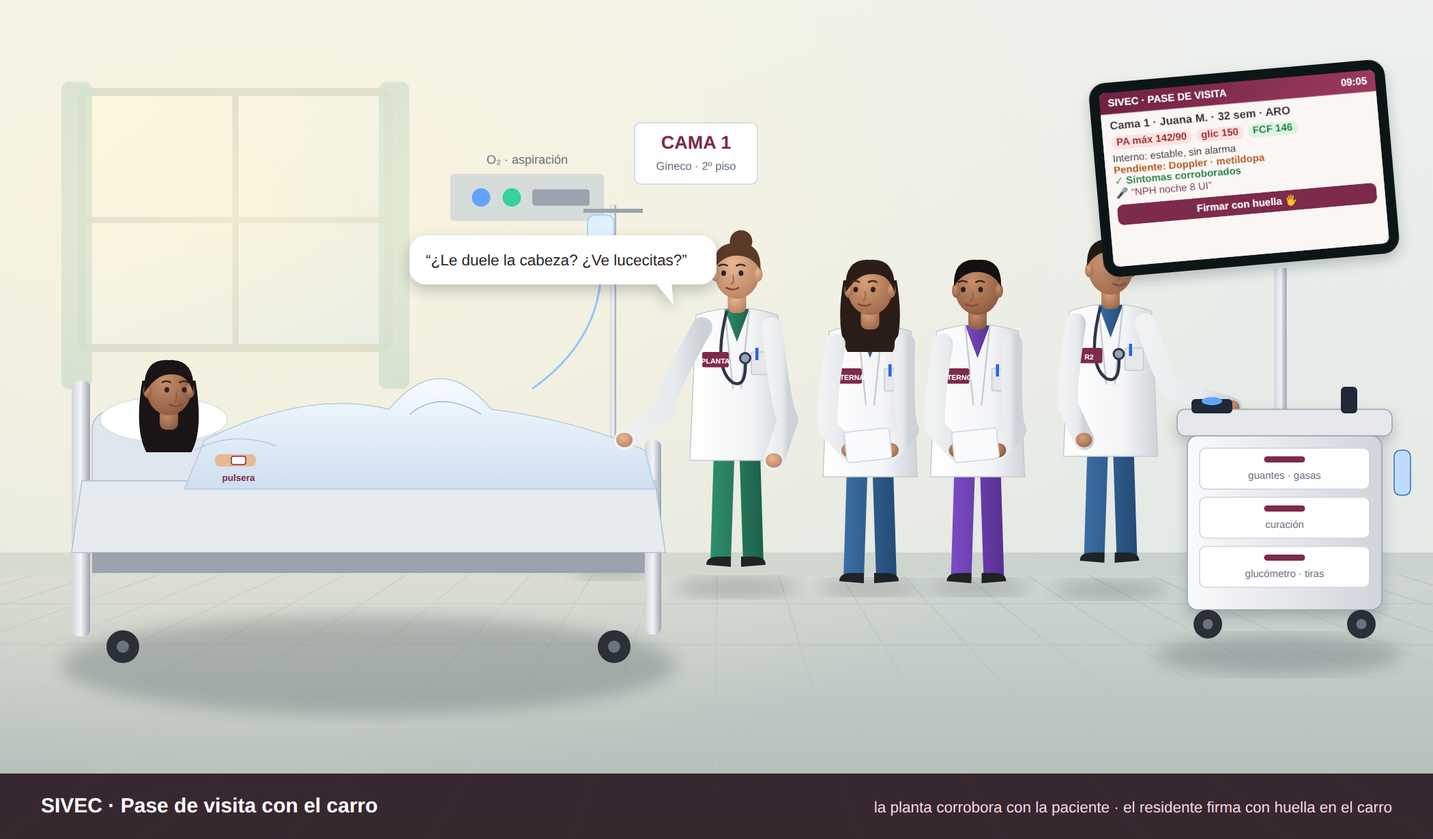
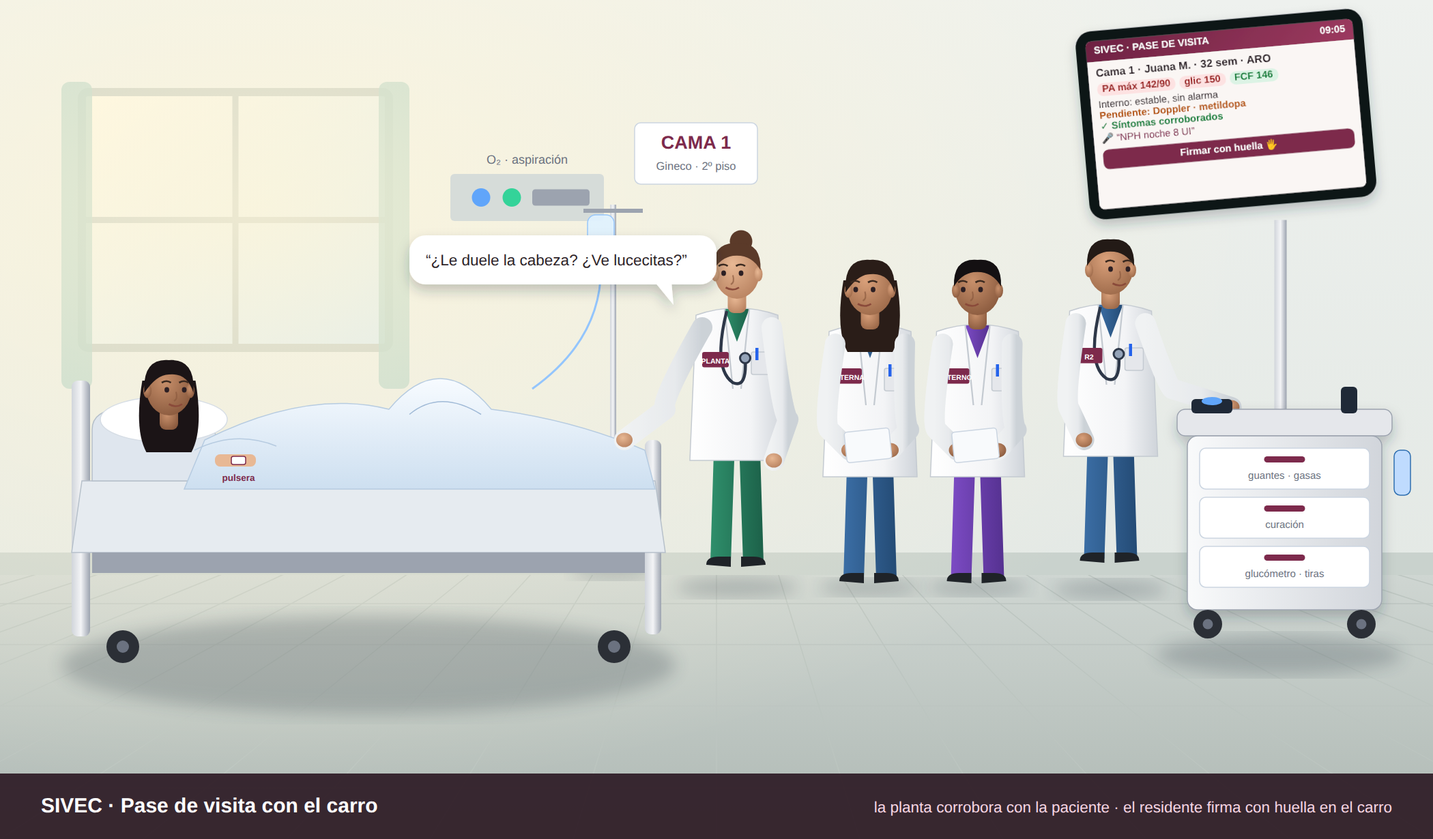
Escena realista: ajuste del tablet
Claude-Session: https://claude.ai/code/session_015MG6VeavRZnDbjYZyzDjvL

Changed region(s): [[0.7429, 0.0, 0.9905, 0.3398]]

diff --git a/docs/escena-realista-pase-visita.html b/docs/escena-realista-pase-visita.html
@@ -16,4 +16,4 @@
 <linearGradient id="cartb" x1="0" y1="0" x2="1" y2="0"><stop offset="0" stop-color="#f9fafb"/><stop offset="1" stop-color="#d1d5db"/></linearGradient>
 <filter id="sh" x="-20%" y="-20%" width="140%" height="160%"><feDropShadow dx="0" dy="6" stdDeviation="6" flood-color="#1f2937" flood-opacity=".25"/></filter>
 <filter id="blur"><feGaussianBlur stdDeviation="8"/></filter>
-</defs><rect width="1400" height="820" fill="url(#wall)"/><polygon points="0,560 1400,560 1400,820 0,820" fill="url(#floor)"/><path d="M-440 560 L-1960 820" stroke="#bcc5c0" stroke-width="1"/><path d="M-380 560 L-1820 820" stroke="#bcc5c0" stroke-width="1"/><path d="M-320 560 L-1680 820" stroke="#bcc5c0" stroke-width="1"/><path d="M-260 560 L-1540 820" stroke="#bcc5c0" stroke-width="1"/><path d="M-200 560 L-1400 820" stroke="#bcc5c0" stroke-width="1"/><path d="M-140 560 L-1260 820" stroke="#bcc5c0" stroke-width="1"/><path d="M-80 560 L-1120 820" stroke="#bcc5c0" stroke-width="1"/><path d="M-20 560 L-980 820" stroke="#bcc5c0" stroke-width="1"/><path d="M40 560 L-840 820" stroke="#bcc5c0" stroke-width="1"/><path d="M100 560 L-700 820" stroke="#bcc5c0" stroke-width="1"/><path d="M160 560 L-560 820" stroke="#bcc5c0" stroke-width="1"/><path d="M220 560 L-420 820" stroke="#bcc5c0" stroke-width="1"/><path d="M280 560 L-280 820" stroke="#bcc5c0" stroke-width="1"/><path d="M340 560 L-140 820" stroke="#bcc5c0" stroke-width="1"/><path d="M400 560 L0 820" stroke="#bcc5c0" stroke-width="1"/><path d="M460 560 L140 820" stroke="#bcc5c0" stroke-width="1"/><path d="M520 560 L280 820" stroke="#bcc5c0" stroke-width="1"/><path d="M580 560 L420 820" stroke="#bcc5c0" stroke-width="1"/><path d="M640 560 L560 820" stroke="#bcc5c0" stroke-width="1"/><path d="M700 560 L700 820" stroke="#bcc5c0" stroke-width="1"/><path d="M760 560 L840 820" stroke="#bcc5c0" stroke-width="1"/><path d="M820 560 L980 820" stroke="#bcc5c0" stroke-width="1"/><path d="M880 560 L1120 820" stroke="#bcc5c0" stroke-width="1"/><path d="M940 560 L1260 820" stroke="#bcc5c0" stroke-width="1"/><path d="M1000 560 L1400 820" stroke="#bcc5c0" stroke-width="1"/><path d="M1060 560 L1540 820" stroke="#bcc5c0" stroke-width="1"/><path d="M1120 560 L1680 820" stroke="#bcc5c0" stroke-width="1"/><path d="M1180 560 L1820 820" stroke="#bcc5c0" stroke-width="1"/><path d="M1240 560 L1960 820" stroke="#bcc5c0" stroke-width="1"/><path d="M1300 560 L2100 820" stroke="#bcc5c0" stroke-width="1"/><path d="M1360 560 L2240 820" stroke="#bcc5c0" stroke-width="1"/><path d="M1420 560 L2380 820" stroke="#bcc5c0" stroke-width="1"/><path d="M1480 560 L2520 820" stroke="#bcc5c0" stroke-width="1"/><path d="M1540 560 L2660 820" stroke="#bcc5c0" stroke-width="1"/><path d="M1600 560 L2800 820" stroke="#bcc5c0" stroke-width="1"/><path d="M1660 560 L2940 820" stroke="#bcc5c0" stroke-width="1"/><path d="M1720 560 L3080 820" stroke="#bcc5c0" stroke-width="1"/><path d="M1780 560 L3220 820" stroke="#bcc5c0" stroke-width="1"/><path d="M1840 560 L3360 820" stroke="#bcc5c0" stroke-width="1"/><path d="M1900 560 L3500 820" stroke="#bcc5c0" stroke-width="1"/><path d="M0 590H1400" stroke="#bcc5c0"/><path d="M0 630H1400" stroke="#bcc5c0"/><path d="M0 690H1400" stroke="#bcc5c0"/><path d="M0 770H1400" stroke="#bcc5c0"/><rect x="0" y="540" width="1400" height="22" fill="#c9d2cd"/><rect x="80" y="90" width="300" height="250" rx="6" fill="url(#win)" stroke="#b8c2bd" stroke-width="8"/><path d="M230 90V340M80 215H380" stroke="#b8c2bd" stroke-width="6"/><rect x="60" y="80" width="30" height="300" rx="8" fill="#9fc8c0" opacity=".8"/><rect x="370" y="80" width="30" height="300" rx="8" fill="#9fc8c0" opacity=".8"/><rect width="1400" height="820" fill="url(#light)"/><rect x="440" y="170" width="150" height="46" rx="4" fill="#d6dcd9"/><circle cx="470" cy="193" r="9" fill="#60a5fa"/><circle cx="500" cy="193" r="9" fill="#34d399"/><rect x="520" y="185" width="56" height="16" rx="3" fill="#9ca3af"/><text x="515" y="160" text-anchor="middle" font-size="12" fill="#6b7280" font-family="Liberation Sans, DejaVu Sans, Arial, sans-serif">O₂ · aspiración</text><rect x="620" y="120" width="120" height="60" rx="6" fill="#fff" stroke="#cbd5e1"/><text x="680" y="145" text-anchor="middle" font-size="18" font-weight="800" fill="#7d2a4c" font-family="Liberation Sans, DejaVu Sans, Arial, sans-serif">CAMA 1</text><text x="680" y="166" text-anchor="middle" font-size="11" fill="#6b7280" font-family="Liberation Sans, DejaVu Sans, Arial, sans-serif">Gineco · 2º piso</text><rect x="596" y="200" width="6" height="360" fill="url(#metal)"/><path d="M570 206 H628" stroke="#9ca3af" stroke-width="4"/><rect x="574" y="210" width="26" height="46" rx="8" fill="#e0f2fe" stroke="#93c5fd" opacity=".95"/><path d="M587 256 Q590 330 520 380" stroke="#93c5fd" stroke-width="2" fill="none"/><ellipse cx="599" cy="560" rx="40" ry="6.4" fill="#1f2937" opacity=".22" filter="url(#blur)"/><ellipse cx="360" cy="650" rx="300" ry="48.0" fill="#1f2937" opacity=".22" filter="url(#blur)"/><rect x="70" y="372" width="18" height="250" rx="6" fill="url(#metal)"/><rect x="630" y="430" width="16" height="190" rx="6" fill="url(#metal)"/><path d="M80 470 L640 470 L650 540 L70 540 Z" fill="#e6ebf0" stroke="#b6c0ca"/><rect x="90" y="540" width="540" height="20" fill="#9ca3af"/><circle cx="120" cy="632" r="16" fill="#2b2f36"/><circle cx="120" cy="632" r="6" fill="#6b7280"/><circle cx="600" cy="632" r="16" fill="#2b2f36"/><circle cx="600" cy="632" r="6" fill="#6b7280"/><path d="M90 470 L90 420 Q90 400 120 400 L200 400 L230 470Z" fill="#dfe6ee" stroke="#b6c0ca"/><ellipse cx="160" cy="410" rx="62" ry="22" fill="#fff" stroke="#d6dde5"/><path d="M139 372 Q131 420 143 442 L187 442 Q199 420 191 372 Z" fill="#1b1416"/><rect x="156" y="398" width="18" height="22" rx="6" fill="url(#skinC)"/><ellipse cx="165" cy="380" rx="22" ry="26" fill="url(#skinC)"/><ellipse cx="144" cy="382" rx="4" ry="7" fill="url(#skinC)"/><ellipse cx="186" cy="382" rx="4" ry="7" fill="url(#skinC)"/><path d="M141 384 Q139 350 165 352 Q191 350 189 384 Q183 364 165 366 Q153 366 141 384Z" fill="#1b1416"/><path d="M158 374 q5 -3 9 0 M175 374 q5 -3 9 0" stroke="#3b2a20" stroke-width="1.8" fill="none"/><ellipse cx="163" cy="381" rx="2.3" ry="2.6" fill="#2d2024"/><ellipse cx="180" cy="381" rx="2.3" ry="2.6" fill="#2d2024"/><path d="M172 383 q2 7 -2 9" stroke="#8a5a3e" stroke-width="1.4" fill="none" opacity=".7"/><path d="M165 395 q7 4 13 0" stroke="#8a4a3a" stroke-width="1.8" fill="none"/><path d="M200 430 Q300 380 380 400 Q430 340 480 400 Q560 410 630 440 L640 478 L180 478 Z" fill="url(#sheet)" stroke="#b6cbe0"/><path d="M190 440 Q230 420 270 436" stroke="#b6cbe0" fill="none"/><path d="M400 405 Q430 380 470 405" stroke="#9fb9d6" fill="none"/><rect x="210" y="444" width="40" height="12" rx="5" fill="#e8b894"/><rect x="226" y="446" width="14" height="8" rx="2" fill="#fff" stroke="#7d2a4c"/><text x="233" y="470" text-anchor="middle" font-size="9" fill="#7d2a4c" font-weight="700" font-family="Liberation Sans, DejaVu Sans, Arial, sans-serif">pulsera</text><ellipse cx="720" cy="574" rx="60" ry="9.6" fill="#1f2937" opacity=".22" filter="url(#blur)"/><path d="M698 420 L694 550 L714 550 L718 430 L722 430 L726 550 L746 550 L742 420Z" fill="url(#scrubG)"/><path d="M690 552 q0 -8 12 -8 l12 0 l0 10 z M724 554 l0 -10 l12 0 q12 0 12 8 z" fill="#1f2328"/><path d="M680 308 Q720 294 760 308 L766 450 L674 450 Z" fill="url(#coat)" stroke="#c4cad1"/><path d="M708 302 L720 334 L732 302" fill="url(#scrubG)"/><path d="M708 302 L716 380 M732 302 L724 380" stroke="#c4cad1" stroke-width="1.5"/><rect x="734" y="344" width="18" height="22" rx="2" fill="#e5e7eb" stroke="#c4cad1"/><rect x="738" y="340" width="3" height="12" fill="#2563eb"/><path d="M710 304 Q696 360 716 374 Q730 380 728 350" fill="none" stroke="#2d3748" stroke-width="3"/><circle cx="728" cy="350" r="5" fill="#94a3b8" stroke="#2d3748" stroke-width="2"/><rect x="686" y="344" width="26" height="15" rx="2" fill="#7d2a4c"/><text x="699" y="355" text-anchor="middle" font-size="7" fill="#fff" font-weight="700" font-family="Liberation Sans, DejaVu Sans, Arial, sans-serif">PLANTA</text><circle cx="724" cy="236" r="11" fill="#5b3a29"/><rect x="711" y="284" width="18" height="22" rx="6" fill="url(#skinA)"/><ellipse cx="720" cy="266" rx="22" ry="26" fill="url(#skinA)"/><ellipse cx="699" cy="268" rx="4" ry="7" fill="url(#skinA)"/><ellipse cx="741" cy="268" rx="4" ry="7" fill="url(#skinA)"/><path d="M697 264 Q696 236 720 238 Q744 236 743 264 Q734 248 716 250 Q704 252 697 264Z" fill="#5b3a29"/><path d="M702 260 q5 -3 9 0 M719 260 q5 -3 9 0" stroke="#3b2a20" stroke-width="1.8" fill="none"/><ellipse cx="707" cy="267" rx="2.3" ry="2.6" fill="#2d2024"/><ellipse cx="724" cy="267" rx="2.3" ry="2.6" fill="#2d2024"/><path d="M716 269 q2 7 -2 9" stroke="#8a5a3e" stroke-width="1.4" fill="none" opacity=".7"/><path d="M709 281 q7 4 13 0" stroke="#8a4a3a" stroke-width="1.8" fill="none"/><path d="M686 320 Q644 394 650 400 L610 430" stroke="url(#coat)" stroke-width="20" stroke-linecap="round" stroke-linejoin="round" fill="none"/><path d="M686 320 Q644 394 650 400 L610 430" stroke="#c4cad1" stroke-width="20" stroke-linecap="round" stroke-linejoin="round" fill="none" opacity=".25"/><ellipse cx="610" cy="430" rx="8" ry="7" fill="url(#skinA)"/><path d="M754 320 Q764 404 770 410 L756 450" stroke="url(#coat)" stroke-width="20" stroke-linecap="round" stroke-linejoin="round" fill="none"/><path d="M754 320 Q764 404 770 410 L756 450" stroke="#c4cad1" stroke-width="20" stroke-linecap="round" stroke-linejoin="round" fill="none" opacity=".25"/><ellipse cx="756" cy="450" rx="8" ry="7" fill="url(#skinA)"/><g filter="url(#sh)"><rect x="400" y="230" width="300" height="48" rx="16" fill="#fff"/><path d="M640 276 l18 22 l-2 -22z" fill="#fff"/></g><text x="416" y="259" font-size="15" fill="#2d2429" font-family="Liberation Sans, DejaVu Sans, Arial, sans-serif">“¿Le duele la cabeza? ¿Ve lucecitas?”</text><ellipse cx="850" cy="574" rx="50" ry="8.0" fill="#1f2937" opacity=".22" filter="url(#blur)"/><path d="M828 436 L824 566 L844 566 L848 446 L852 446 L856 566 L876 566 L872 436Z" fill="url(#scrubB)"/><path d="M820 568 q0 -8 12 -8 l12 0 l0 10 z M854 570 l0 -10 l12 0 q12 0 12 8 z" fill="#1f2328"/><path d="M810 324 Q850 310 890 324 L896 466 L804 466 Z" fill="url(#coat)" stroke="#c4cad1"/><path d="M838 318 L850 350 L862 318" fill="url(#scrubB)"/><path d="M838 318 L846 396 M862 318 L854 396" stroke="#c4cad1" stroke-width="1.5"/><rect x="864" y="360" width="18" height="22" rx="2" fill="#e5e7eb" stroke="#c4cad1"/><rect x="868" y="356" width="3" height="12" fill="#2563eb"/><rect x="816" y="360" width="26" height="15" rx="2" fill="#7d2a4c"/><text x="829" y="371" text-anchor="middle" font-size="7" fill="#fff" font-weight="700" font-family="Liberation Sans, DejaVu Sans, Arial, sans-serif">INTERNA</text><path d="M824 274 Q816 322 828 344 L872 344 Q884 322 876 274 Z" fill="#2a1d18"/><rect x="841" y="300" width="18" height="22" rx="6" fill="url(#skinB)"/><ellipse cx="850" cy="282" rx="22" ry="26" fill="url(#skinB)"/><ellipse cx="829" cy="284" rx="4" ry="7" fill="url(#skinB)"/><ellipse cx="871" cy="284" rx="4" ry="7" fill="url(#skinB)"/><path d="M826 286 Q824 252 850 254 Q876 252 874 286 Q868 266 850 268 Q838 268 826 286Z" fill="#2a1d18"/><path d="M831 276 q5 -3 9 0 M848 276 q5 -3 9 0" stroke="#3b2a20" stroke-width="1.8" fill="none"/><ellipse cx="836" cy="283" rx="2.3" ry="2.6" fill="#2d2024"/><ellipse cx="853" cy="283" rx="2.3" ry="2.6" fill="#2d2024"/><path d="M845 285 q2 7 -2 9" stroke="#8a5a3e" stroke-width="1.4" fill="none" opacity=".7"/><path d="M838 297 q7 4 13 0" stroke="#8a4a3a" stroke-width="1.8" fill="none"/><path d="M816 336 Q804 414 810 420 L830 440" stroke="url(#coat)" stroke-width="20" stroke-linecap="round" stroke-linejoin="round" fill="none"/><path d="M816 336 Q804 414 810 420 L830 440" stroke="#c4cad1" stroke-width="20" stroke-linecap="round" stroke-linejoin="round" fill="none" opacity=".25"/><ellipse cx="830" cy="440" rx="8" ry="7" fill="url(#skinB)"/><path d="M884 336 Q882 414 888 420 L870 440" stroke="url(#coat)" stroke-width="20" stroke-linecap="round" stroke-linejoin="round" fill="none"/><path d="M884 336 Q882 414 888 420 L870 440" stroke="#c4cad1" stroke-width="20" stroke-linecap="round" stroke-linejoin="round" fill="none" opacity=".25"/><ellipse cx="870" cy="440" rx="8" ry="7" fill="url(#skinB)"/><rect x="826" y="420" width="44" height="30" rx="3" fill="#f8fafc" stroke="#cbd5e1" transform="rotate(-6 850 435)"/><ellipse cx="955" cy="574" rx="50" ry="8.0" fill="#1f2937" opacity=".22" filter="url(#blur)"/><path d="M933 436 L929 566 L949 566 L953 446 L957 446 L961 566 L981 566 L977 436Z" fill="url(#scrubP)"/><path d="M925 568 q0 -8 12 -8 l12 0 l0 10 z M959 570 l0 -10 l12 0 q12 0 12 8 z" fill="#1f2328"/><path d="M915 324 Q955 310 995 324 L1001 466 L909 466 Z" fill="url(#coat)" stroke="#c4cad1"/><path d="M943 318 L955 350 L967 318" fill="url(#scrubP)"/><path d="M943 318 L951 396 M967 318 L959 396" stroke="#c4cad1" stroke-width="1.5"/><rect x="969" y="360" width="18" height="22" rx="2" fill="#e5e7eb" stroke="#c4cad1"/><rect x="973" y="356" width="3" height="12" fill="#2563eb"/><rect x="921" y="360" width="26" height="15" rx="2" fill="#7d2a4c"/><text x="934" y="371" text-anchor="middle" font-size="7" fill="#fff" font-weight="700" font-family="Liberation Sans, DejaVu Sans, Arial, sans-serif">INTERNO</text><rect x="946" y="300" width="18" height="22" rx="6" fill="url(#skinC)"/><ellipse cx="955" cy="282" rx="22" ry="26" fill="url(#skinC)"/><ellipse cx="934" cy="284" rx="4" ry="7" fill="url(#skinC)"/><ellipse cx="976" cy="284" rx="4" ry="7" fill="url(#skinC)"/><path d="M932 280 Q931 252 955 254 Q979 252 978 280 Q969 264 951 266 Q939 268 932 280Z" fill="#141012"/><path d="M936 276 q5 -3 9 0 M953 276 q5 -3 9 0" stroke="#3b2a20" stroke-width="1.8" fill="none"/><ellipse cx="941" cy="283" rx="2.3" ry="2.6" fill="#2d2024"/><ellipse cx="958" cy="283" rx="2.3" ry="2.6" fill="#2d2024"/><path d="M950 285 q2 7 -2 9" stroke="#8a5a3e" stroke-width="1.4" fill="none" opacity=".7"/><path d="M943 297 q7 4 13 0" stroke="#8a4a3a" stroke-width="1.8" fill="none"/><path d="M921 336 Q909 414 915 420 L935 440" stroke="url(#coat)" stroke-width="20" stroke-linecap="round" stroke-linejoin="round" fill="none"/><path d="M921 336 Q909 414 915 420 L935 440" stroke="#c4cad1" stroke-width="20" stroke-linecap="round" stroke-linejoin="round" fill="none" opacity=".25"/><ellipse cx="935" cy="440" rx="8" ry="7" fill="url(#skinC)"/><path d="M989 336 Q987 414 993 420 L975 440" stroke="url(#coat)" stroke-width="20" stroke-linecap="round" stroke-linejoin="round" fill="none"/><path d="M989 336 Q987 414 993 420 L975 440" stroke="#c4cad1" stroke-width="20" stroke-linecap="round" stroke-linejoin="round" fill="none" opacity=".25"/><ellipse cx="975" cy="440" rx="8" ry="7" fill="url(#skinC)"/><rect x="931" y="420" width="44" height="30" rx="3" fill="#f8fafc" stroke="#cbd5e1" transform="rotate(-6 955 435)"/><ellipse cx="1085" cy="576" rx="56" ry="8.96" fill="#1f2937" opacity=".22" filter="url(#blur)"/><path d="M1063 416 L1059 546 L1079 546 L1083 426 L1087 426 L1091 546 L1111 546 L1107 416Z" fill="url(#scrubB)"/><path d="M1055 548 q0 -8 12 -8 l12 0 l0 10 z M1089 550 l0 -10 l12 0 q12 0 12 8 z" fill="#1f2328"/><path d="M1045 304 Q1085 290 1125 304 L1131 446 L1039 446 Z" fill="url(#coat)" stroke="#c4cad1"/><path d="M1073 298 L1085 330 L1097 298" fill="url(#scrubB)"/><path d="M1073 298 L1081 376 M1097 298 L1089 376" stroke="#c4cad1" stroke-width="1.5"/><rect x="1099" y="340" width="18" height="22" rx="2" fill="#e5e7eb" stroke="#c4cad1"/><rect x="1103" y="336" width="3" height="12" fill="#2563eb"/><path d="M1075 300 Q1061 356 1081 370 Q1095 376 1093 346" fill="none" stroke="#2d3748" stroke-width="3"/><circle cx="1093" cy="346" r="5" fill="#94a3b8" stroke="#2d3748" stroke-width="2"/><rect x="1051" y="340" width="26" height="15" rx="2" fill="#7d2a4c"/><text x="1064" y="351" text-anchor="middle" font-size="7" fill="#fff" font-weight="700" font-family="Liberation Sans, DejaVu Sans, Arial, sans-serif">R2</text><rect x="1076" y="280" width="18" height="22" rx="6" fill="url(#skinB)"/><ellipse cx="1085" cy="262" rx="22" ry="26" fill="url(#skinB)"/><ellipse cx="1064" cy="264" rx="4" ry="7" fill="url(#skinB)"/><ellipse cx="1106" cy="264" rx="4" ry="7" fill="url(#skinB)"/><path d="M1062 260 Q1061 232 1085 234 Q1109 232 1108 260 Q1099 244 1081 246 Q1069 248 1062 260Z" fill="#231a16"/><path d="M1080 256 q5 -3 9 0 M1097 256 q5 -3 9 0" stroke="#3b2a20" stroke-width="1.8" fill="none"/><ellipse cx="1085" cy="263" rx="2.3" ry="2.6" fill="#2d2024"/><ellipse cx="1102" cy="263" rx="2.3" ry="2.6" fill="#2d2024"/><path d="M1094 265 q2 7 -2 9" stroke="#8a5a3e" stroke-width="1.4" fill="none" opacity=".7"/><path d="M1087 277 q7 4 13 0" stroke="#8a4a3a" stroke-width="1.8" fill="none"/><path d="M1119 316 Q1139 374 1145 380 L1203 398" stroke="url(#coat)" stroke-width="20" stroke-linecap="round" stroke-linejoin="round" fill="none"/><path d="M1119 316 Q1139 374 1145 380 L1203 398" stroke="#c4cad1" stroke-width="20" stroke-linecap="round" stroke-linejoin="round" fill="none" opacity=".25"/><ellipse cx="1203" cy="398" rx="8" ry="7" fill="url(#skinB)"/><path d="M1051 316 Q1039 394 1045 400 L1059 430" stroke="url(#coat)" stroke-width="20" stroke-linecap="round" stroke-linejoin="round" fill="none"/><path d="M1051 316 Q1039 394 1045 400 L1059 430" stroke="#c4cad1" stroke-width="20" stroke-linecap="round" stroke-linejoin="round" fill="none" opacity=".25"/><ellipse cx="1059" cy="430" rx="8" ry="7" fill="url(#skinB)"/><ellipse cx="1250" cy="640" rx="120" ry="19.2" fill="#1f2937" opacity=".22" filter="url(#blur)"/><rect x="1245" y="262" width="12" height="140" fill="url(#metal)"/><g filter="url(#sh)"><rect x="1150" y="400" width="210" height="26" rx="8" fill="#e5e7eb" stroke="#9ca3af"/><rect x="1160" y="426" width="190" height="170" rx="10" fill="url(#cartb)" stroke="#9ca3af"/></g><rect x="1172" y="438" width="166" height="40" rx="6" fill="#fff" stroke="#cbd5e1"/><rect x="1235" y="446" width="40" height="6" rx="3" fill="#7d2a4c"/><text x="1255" y="468" text-anchor="middle" font-size="10" fill="#6b7280" font-family="Liberation Sans, DejaVu Sans, Arial, sans-serif">guantes · gasas</text><rect x="1172" y="486" width="166" height="40" rx="6" fill="#fff" stroke="#cbd5e1"/><rect x="1235" y="494" width="40" height="6" rx="3" fill="#7d2a4c"/><text x="1255" y="516" text-anchor="middle" font-size="10" fill="#6b7280" font-family="Liberation Sans, DejaVu Sans, Arial, sans-serif">curación</text><rect x="1172" y="534" width="166" height="40" rx="6" fill="#fff" stroke="#cbd5e1"/><rect x="1235" y="542" width="40" height="6" rx="3" fill="#7d2a4c"/><text x="1255" y="564" text-anchor="middle" font-size="10" fill="#6b7280" font-family="Liberation Sans, DejaVu Sans, Arial, sans-serif">glucómetro · tiras</text><circle cx="1180" cy="610" r="14" fill="#2b2f36"/><circle cx="1180" cy="610" r="5" fill="#6b7280"/><circle cx="1330" cy="610" r="14" fill="#2b2f36"/><circle cx="1330" cy="610" r="5" fill="#6b7280"/><rect x="1164" y="390" width="40" height="14" rx="4" fill="#1f2937"/><ellipse cx="1184" cy="392" rx="10" ry="4" fill="#60a5fa"/><rect x="1310" y="378" width="16" height="26" rx="4" fill="#1f2937"/><rect x="1362" y="440" width="16" height="44" rx="6" fill="#bfdbfe" stroke="#2f6fb0"/><g filter="url(#sh)" transform="translate(-40,0) rotate(-5 1250 160)"><rect x="1110" y="70" width="290" height="190" rx="16" fill="#111418"/><foreignObject x="1120" y="80" width="270" height="170"><div xmlns="http://www.w3.org/1999/xhtml" style="width:270px;height:170px;background:#faf6f4;border-radius:6px;overflow:hidden;font:10px Liberation Sans,DejaVu Sans,Arial,sans-serif;color:#2d2429"><div style="background:linear-gradient(135deg,#6d2142,#9c3a5f);color:#fff;padding:5px 8px;font-weight:800;display:flex;justify-content:space-between"><span>SIVEC · PASE DE VISITA</span><span>09:05</span></div><div style="padding:6px 8px"><b style="font-size:11px">Cama 1 · Juana M. · 32 sem · ARO</b><div style="display:flex;gap:4px;margin:4px 0"><span style="background:#fde2e2;color:#991b1b;border-radius:6px;padding:1px 5px;font-weight:700">PA máx 142/90</span><span style="background:#fde2e2;color:#991b1b;border-radius:6px;padding:1px 5px;font-weight:700">glic 150</span><span style="background:#dcf3e5;color:#15803d;border-radius:6px;padding:1px 5px;font-weight:700">FCF 146</span></div><div>Interno: estable, sin alarma</div><div style="color:#b45309;font-weight:700">Pendiente: Doppler · metildopa</div><div style="color:#15803d;font-weight:700">✓ Síntomas corroborados</div><div style="color:#7d2a4c">🎤 “NPH noche 8 UI”</div><div style="margin-top:5px;background:#7d2a4c;color:#fff;border-radius:6px;text-align:center;padding:4px;font-weight:800">Firmar con huella 🖐</div></div></div></foreignObject></g><rect x="0" y="756" width="1400" height="64" fill="#2d1a24" opacity=".92"/><text x="40" y="794" font-size="20" fill="#fff" font-weight="700" font-family="Liberation Sans, DejaVu Sans, Arial, sans-serif">SIVEC · Pase de visita con el carro</text><text x="1360" y="794" text-anchor="end" font-size="15" fill="#f6d6e3" font-family="Liberation Sans, DejaVu Sans, Arial, sans-serif">la planta corrobora con la paciente · el residente firma con huella en el carro</text></svg></body></html>
+</defs><rect width="1400" height="820" fill="url(#wall)"/><polygon points="0,560 1400,560 1400,820 0,820" fill="url(#floor)"/><path d="M-440 560 L-1960 820" stroke="#bcc5c0" stroke-width="1"/><path d="M-380 560 L-1820 820" stroke="#bcc5c0" stroke-width="1"/><path d="M-320 560 L-1680 820" stroke="#bcc5c0" stroke-width="1"/><path d="M-260 560 L-1540 820" stroke="#bcc5c0" stroke-width="1"/><path d="M-200 560 L-1400 820" stroke="#bcc5c0" stroke-width="1"/><path d="M-140 560 L-1260 820" stroke="#bcc5c0" stroke-width="1"/><path d="M-80 560 L-1120 820" stroke="#bcc5c0" stroke-width="1"/><path d="M-20 560 L-980 820" stroke="#bcc5c0" stroke-width="1"/><path d="M40 560 L-840 820" stroke="#bcc5c0" stroke-width="1"/><path d="M100 560 L-700 820" stroke="#bcc5c0" stroke-width="1"/><path d="M160 560 L-560 820" stroke="#bcc5c0" stroke-width="1"/><path d="M220 560 L-420 820" stroke="#bcc5c0" stroke-width="1"/><path d="M280 560 L-280 820" stroke="#bcc5c0" stroke-width="1"/><path d="M340 560 L-140 820" stroke="#bcc5c0" stroke-width="1"/><path d="M400 560 L0 820" stroke="#bcc5c0" stroke-width="1"/><path d="M460 560 L140 820" stroke="#bcc5c0" stroke-width="1"/><path d="M520 560 L280 820" stroke="#bcc5c0" stroke-width="1"/><path d="M580 560 L420 820" stroke="#bcc5c0" stroke-width="1"/><path d="M640 560 L560 820" stroke="#bcc5c0" stroke-width="1"/><path d="M700 560 L700 820" stroke="#bcc5c0" stroke-width="1"/><path d="M760 560 L840 820" stroke="#bcc5c0" stroke-width="1"/><path d="M820 560 L980 820" stroke="#bcc5c0" stroke-width="1"/><path d="M880 560 L1120 820" stroke="#bcc5c0" stroke-width="1"/><path d="M940 560 L1260 820" stroke="#bcc5c0" stroke-width="1"/><path d="M1000 560 L1400 820" stroke="#bcc5c0" stroke-width="1"/><path d="M1060 560 L1540 820" stroke="#bcc5c0" stroke-width="1"/><path d="M1120 560 L1680 820" stroke="#bcc5c0" stroke-width="1"/><path d="M1180 560 L1820 820" stroke="#bcc5c0" stroke-width="1"/><path d="M1240 560 L1960 820" stroke="#bcc5c0" stroke-width="1"/><path d="M1300 560 L2100 820" stroke="#bcc5c0" stroke-width="1"/><path d="M1360 560 L2240 820" stroke="#bcc5c0" stroke-width="1"/><path d="M1420 560 L2380 820" stroke="#bcc5c0" stroke-width="1"/><path d="M1480 560 L2520 820" stroke="#bcc5c0" stroke-width="1"/><path d="M1540 560 L2660 820" stroke="#bcc5c0" stroke-width="1"/><path d="M1600 560 L2800 820" stroke="#bcc5c0" stroke-width="1"/><path d="M1660 560 L2940 820" stroke="#bcc5c0" stroke-width="1"/><path d="M1720 560 L3080 820" stroke="#bcc5c0" stroke-width="1"/><path d="M1780 560 L3220 820" stroke="#bcc5c0" stroke-width="1"/><path d="M1840 560 L3360 820" stroke="#bcc5c0" stroke-width="1"/><path d="M1900 560 L3500 820" stroke="#bcc5c0" stroke-width="1"/><path d="M0 590H1400" stroke="#bcc5c0"/><path d="M0 630H1400" stroke="#bcc5c0"/><path d="M0 690H1400" stroke="#bcc5c0"/><path d="M0 770H1400" stroke="#bcc5c0"/><rect x="0" y="540" width="1400" height="22" fill="#c9d2cd"/><rect x="80" y="90" width="300" height="250" rx="6" fill="url(#win)" stroke="#b8c2bd" stroke-width="8"/><path d="M230 90V340M80 215H380" stroke="#b8c2bd" stroke-width="6"/><rect x="60" y="80" width="30" height="300" rx="8" fill="#9fc8c0" opacity=".8"/><rect x="370" y="80" width="30" height="300" rx="8" fill="#9fc8c0" opacity=".8"/><rect width="1400" height="820" fill="url(#light)"/><rect x="440" y="170" width="150" height="46" rx="4" fill="#d6dcd9"/><circle cx="470" cy="193" r="9" fill="#60a5fa"/><circle cx="500" cy="193" r="9" fill="#34d399"/><rect x="520" y="185" width="56" height="16" rx="3" fill="#9ca3af"/><text x="515" y="160" text-anchor="middle" font-size="12" fill="#6b7280" font-family="Liberation Sans, DejaVu Sans, Arial, sans-serif">O₂ · aspiración</text><rect x="620" y="120" width="120" height="60" rx="6" fill="#fff" stroke="#cbd5e1"/><text x="680" y="145" text-anchor="middle" font-size="18" font-weight="800" fill="#7d2a4c" font-family="Liberation Sans, DejaVu Sans, Arial, sans-serif">CAMA 1</text><text x="680" y="166" text-anchor="middle" font-size="11" fill="#6b7280" font-family="Liberation Sans, DejaVu Sans, Arial, sans-serif">Gineco · 2º piso</text><rect x="596" y="200" width="6" height="360" fill="url(#metal)"/><path d="M570 206 H628" stroke="#9ca3af" stroke-width="4"/><rect x="574" y="210" width="26" height="46" rx="8" fill="#e0f2fe" stroke="#93c5fd" opacity=".95"/><path d="M587 256 Q590 330 520 380" stroke="#93c5fd" stroke-width="2" fill="none"/><ellipse cx="599" cy="560" rx="40" ry="6.4" fill="#1f2937" opacity=".22" filter="url(#blur)"/><ellipse cx="360" cy="650" rx="300" ry="48.0" fill="#1f2937" opacity=".22" filter="url(#blur)"/><rect x="70" y="372" width="18" height="250" rx="6" fill="url(#metal)"/><rect x="630" y="430" width="16" height="190" rx="6" fill="url(#metal)"/><path d="M80 470 L640 470 L650 540 L70 540 Z" fill="#e6ebf0" stroke="#b6c0ca"/><rect x="90" y="540" width="540" height="20" fill="#9ca3af"/><circle cx="120" cy="632" r="16" fill="#2b2f36"/><circle cx="120" cy="632" r="6" fill="#6b7280"/><circle cx="600" cy="632" r="16" fill="#2b2f36"/><circle cx="600" cy="632" r="6" fill="#6b7280"/><path d="M90 470 L90 420 Q90 400 120 400 L200 400 L230 470Z" fill="#dfe6ee" stroke="#b6c0ca"/><ellipse cx="160" cy="410" rx="62" ry="22" fill="#fff" stroke="#d6dde5"/><path d="M139 372 Q131 420 143 442 L187 442 Q199 420 191 372 Z" fill="#1b1416"/><rect x="156" y="398" width="18" height="22" rx="6" fill="url(#skinC)"/><ellipse cx="165" cy="380" rx="22" ry="26" fill="url(#skinC)"/><ellipse cx="144" cy="382" rx="4" ry="7" fill="url(#skinC)"/><ellipse cx="186" cy="382" rx="4" ry="7" fill="url(#skinC)"/><path d="M141 384 Q139 350 165 352 Q191 350 189 384 Q183 364 165 366 Q153 366 141 384Z" fill="#1b1416"/><path d="M158 374 q5 -3 9 0 M175 374 q5 -3 9 0" stroke="#3b2a20" stroke-width="1.8" fill="none"/><ellipse cx="163" cy="381" rx="2.3" ry="2.6" fill="#2d2024"/><ellipse cx="180" cy="381" rx="2.3" ry="2.6" fill="#2d2024"/><path d="M172 383 q2 7 -2 9" stroke="#8a5a3e" stroke-width="1.4" fill="none" opacity=".7"/><path d="M165 395 q7 4 13 0" stroke="#8a4a3a" stroke-width="1.8" fill="none"/><path d="M200 430 Q300 380 380 400 Q430 340 480 400 Q560 410 630 440 L640 478 L180 478 Z" fill="url(#sheet)" stroke="#b6cbe0"/><path d="M190 440 Q230 420 270 436" stroke="#b6cbe0" fill="none"/><path d="M400 405 Q430 380 470 405" stroke="#9fb9d6" fill="none"/><rect x="210" y="444" width="40" height="12" rx="5" fill="#e8b894"/><rect x="226" y="446" width="14" height="8" rx="2" fill="#fff" stroke="#7d2a4c"/><text x="233" y="470" text-anchor="middle" font-size="9" fill="#7d2a4c" font-weight="700" font-family="Liberation Sans, DejaVu Sans, Arial, sans-serif">pulsera</text><ellipse cx="720" cy="574" rx="60" ry="9.6" fill="#1f2937" opacity=".22" filter="url(#blur)"/><path d="M698 420 L694 550 L714 550 L718 430 L722 430 L726 550 L746 550 L742 420Z" fill="url(#scrubG)"/><path d="M690 552 q0 -8 12 -8 l12 0 l0 10 z M724 554 l0 -10 l12 0 q12 0 12 8 z" fill="#1f2328"/><path d="M680 308 Q720 294 760 308 L766 450 L674 450 Z" fill="url(#coat)" stroke="#c4cad1"/><path d="M708 302 L720 334 L732 302" fill="url(#scrubG)"/><path d="M708 302 L716 380 M732 302 L724 380" stroke="#c4cad1" stroke-width="1.5"/><rect x="734" y="344" width="18" height="22" rx="2" fill="#e5e7eb" stroke="#c4cad1"/><rect x="738" y="340" width="3" height="12" fill="#2563eb"/><path d="M710 304 Q696 360 716 374 Q730 380 728 350" fill="none" stroke="#2d3748" stroke-width="3"/><circle cx="728" cy="350" r="5" fill="#94a3b8" stroke="#2d3748" stroke-width="2"/><rect x="686" y="344" width="26" height="15" rx="2" fill="#7d2a4c"/><text x="699" y="355" text-anchor="middle" font-size="7" fill="#fff" font-weight="700" font-family="Liberation Sans, DejaVu Sans, Arial, sans-serif">PLANTA</text><circle cx="724" cy="236" r="11" fill="#5b3a29"/><rect x="711" y="284" width="18" height="22" rx="6" fill="url(#skinA)"/><ellipse cx="720" cy="266" rx="22" ry="26" fill="url(#skinA)"/><ellipse cx="699" cy="268" rx="4" ry="7" fill="url(#skinA)"/><ellipse cx="741" cy="268" rx="4" ry="7" fill="url(#skinA)"/><path d="M697 264 Q696 236 720 238 Q744 236 743 264 Q734 248 716 250 Q704 252 697 264Z" fill="#5b3a29"/><path d="M702 260 q5 -3 9 0 M719 260 q5 -3 9 0" stroke="#3b2a20" stroke-width="1.8" fill="none"/><ellipse cx="707" cy="267" rx="2.3" ry="2.6" fill="#2d2024"/><ellipse cx="724" cy="267" rx="2.3" ry="2.6" fill="#2d2024"/><path d="M716 269 q2 7 -2 9" stroke="#8a5a3e" stroke-width="1.4" fill="none" opacity=".7"/><path d="M709 281 q7 4 13 0" stroke="#8a4a3a" stroke-width="1.8" fill="none"/><path d="M686 320 Q644 394 650 400 L610 430" stroke="url(#coat)" stroke-width="20" stroke-linecap="round" stroke-linejoin="round" fill="none"/><path d="M686 320 Q644 394 650 400 L610 430" stroke="#c4cad1" stroke-width="20" stroke-linecap="round" stroke-linejoin="round" fill="none" opacity=".25"/><ellipse cx="610" cy="430" rx="8" ry="7" fill="url(#skinA)"/><path d="M754 320 Q764 404 770 410 L756 450" stroke="url(#coat)" stroke-width="20" stroke-linecap="round" stroke-linejoin="round" fill="none"/><path d="M754 320 Q764 404 770 410 L756 450" stroke="#c4cad1" stroke-width="20" stroke-linecap="round" stroke-linejoin="round" fill="none" opacity=".25"/><ellipse cx="756" cy="450" rx="8" ry="7" fill="url(#skinA)"/><g filter="url(#sh)"><rect x="400" y="230" width="300" height="48" rx="16" fill="#fff"/><path d="M640 276 l18 22 l-2 -22z" fill="#fff"/></g><text x="416" y="259" font-size="15" fill="#2d2429" font-family="Liberation Sans, DejaVu Sans, Arial, sans-serif">“¿Le duele la cabeza? ¿Ve lucecitas?”</text><ellipse cx="850" cy="574" rx="50" ry="8.0" fill="#1f2937" opacity=".22" filter="url(#blur)"/><path d="M828 436 L824 566 L844 566 L848 446 L852 446 L856 566 L876 566 L872 436Z" fill="url(#scrubB)"/><path d="M820 568 q0 -8 12 -8 l12 0 l0 10 z M854 570 l0 -10 l12 0 q12 0 12 8 z" fill="#1f2328"/><path d="M810 324 Q850 310 890 324 L896 466 L804 466 Z" fill="url(#coat)" stroke="#c4cad1"/><path d="M838 318 L850 350 L862 318" fill="url(#scrubB)"/><path d="M838 318 L846 396 M862 318 L854 396" stroke="#c4cad1" stroke-width="1.5"/><rect x="864" y="360" width="18" height="22" rx="2" fill="#e5e7eb" stroke="#c4cad1"/><rect x="868" y="356" width="3" height="12" fill="#2563eb"/><rect x="816" y="360" width="26" height="15" rx="2" fill="#7d2a4c"/><text x="829" y="371" text-anchor="middle" font-size="7" fill="#fff" font-weight="700" font-family="Liberation Sans, DejaVu Sans, Arial, sans-serif">INTERNA</text><path d="M824 274 Q816 322 828 344 L872 344 Q884 322 876 274 Z" fill="#2a1d18"/><rect x="841" y="300" width="18" height="22" rx="6" fill="url(#skinB)"/><ellipse cx="850" cy="282" rx="22" ry="26" fill="url(#skinB)"/><ellipse cx="829" cy="284" rx="4" ry="7" fill="url(#skinB)"/><ellipse cx="871" cy="284" rx="4" ry="7" fill="url(#skinB)"/><path d="M826 286 Q824 252 850 254 Q876 252 874 286 Q868 266 850 268 Q838 268 826 286Z" fill="#2a1d18"/><path d="M831 276 q5 -3 9 0 M848 276 q5 -3 9 0" stroke="#3b2a20" stroke-width="1.8" fill="none"/><ellipse cx="836" cy="283" rx="2.3" ry="2.6" fill="#2d2024"/><ellipse cx="853" cy="283" rx="2.3" ry="2.6" fill="#2d2024"/><path d="M845 285 q2 7 -2 9" stroke="#8a5a3e" stroke-width="1.4" fill="none" opacity=".7"/><path d="M838 297 q7 4 13 0" stroke="#8a4a3a" stroke-width="1.8" fill="none"/><path d="M816 336 Q804 414 810 420 L830 440" stroke="url(#coat)" stroke-width="20" stroke-linecap="round" stroke-linejoin="round" fill="none"/><path d="M816 336 Q804 414 810 420 L830 440" stroke="#c4cad1" stroke-width="20" stroke-linecap="round" stroke-linejoin="round" fill="none" opacity=".25"/><ellipse cx="830" cy="440" rx="8" ry="7" fill="url(#skinB)"/><path d="M884 336 Q882 414 888 420 L870 440" stroke="url(#coat)" stroke-width="20" stroke-linecap="round" stroke-linejoin="round" fill="none"/><path d="M884 336 Q882 414 888 420 L870 440" stroke="#c4cad1" stroke-width="20" stroke-linecap="round" stroke-linejoin="round" fill="none" opacity=".25"/><ellipse cx="870" cy="440" rx="8" ry="7" fill="url(#skinB)"/><rect x="826" y="420" width="44" height="30" rx="3" fill="#f8fafc" stroke="#cbd5e1" transform="rotate(-6 850 435)"/><ellipse cx="955" cy="574" rx="50" ry="8.0" fill="#1f2937" opacity=".22" filter="url(#blur)"/><path d="M933 436 L929 566 L949 566 L953 446 L957 446 L961 566 L981 566 L977 436Z" fill="url(#scrubP)"/><path d="M925 568 q0 -8 12 -8 l12 0 l0 10 z M959 570 l0 -10 l12 0 q12 0 12 8 z" fill="#1f2328"/><path d="M915 324 Q955 310 995 324 L1001 466 L909 466 Z" fill="url(#coat)" stroke="#c4cad1"/><path d="M943 318 L955 350 L967 318" fill="url(#scrubP)"/><path d="M943 318 L951 396 M967 318 L959 396" stroke="#c4cad1" stroke-width="1.5"/><rect x="969" y="360" width="18" height="22" rx="2" fill="#e5e7eb" stroke="#c4cad1"/><rect x="973" y="356" width="3" height="12" fill="#2563eb"/><rect x="921" y="360" width="26" height="15" rx="2" fill="#7d2a4c"/><text x="934" y="371" text-anchor="middle" font-size="7" fill="#fff" font-weight="700" font-family="Liberation Sans, DejaVu Sans, Arial, sans-serif">INTERNO</text><rect x="946" y="300" width="18" height="22" rx="6" fill="url(#skinC)"/><ellipse cx="955" cy="282" rx="22" ry="26" fill="url(#skinC)"/><ellipse cx="934" cy="284" rx="4" ry="7" fill="url(#skinC)"/><ellipse cx="976" cy="284" rx="4" ry="7" fill="url(#skinC)"/><path d="M932 280 Q931 252 955 254 Q979 252 978 280 Q969 264 951 266 Q939 268 932 280Z" fill="#141012"/><path d="M936 276 q5 -3 9 0 M953 276 q5 -3 9 0" stroke="#3b2a20" stroke-width="1.8" fill="none"/><ellipse cx="941" cy="283" rx="2.3" ry="2.6" fill="#2d2024"/><ellipse cx="958" cy="283" rx="2.3" ry="2.6" fill="#2d2024"/><path d="M950 285 q2 7 -2 9" stroke="#8a5a3e" stroke-width="1.4" fill="none" opacity=".7"/><path d="M943 297 q7 4 13 0" stroke="#8a4a3a" stroke-width="1.8" fill="none"/><path d="M921 336 Q909 414 915 420 L935 440" stroke="url(#coat)" stroke-width="20" stroke-linecap="round" stroke-linejoin="round" fill="none"/><path d="M921 336 Q909 414 915 420 L935 440" stroke="#c4cad1" stroke-width="20" stroke-linecap="round" stroke-linejoin="round" fill="none" opacity=".25"/><ellipse cx="935" cy="440" rx="8" ry="7" fill="url(#skinC)"/><path d="M989 336 Q987 414 993 420 L975 440" stroke="url(#coat)" stroke-width="20" stroke-linecap="round" stroke-linejoin="round" fill="none"/><path d="M989 336 Q987 414 993 420 L975 440" stroke="#c4cad1" stroke-width="20" stroke-linecap="round" stroke-linejoin="round" fill="none" opacity=".25"/><ellipse cx="975" cy="440" rx="8" ry="7" fill="url(#skinC)"/><rect x="931" y="420" width="44" height="30" rx="3" fill="#f8fafc" stroke="#cbd5e1" transform="rotate(-6 955 435)"/><ellipse cx="1085" cy="576" rx="56" ry="8.96" fill="#1f2937" opacity=".22" filter="url(#blur)"/><path d="M1063 416 L1059 546 L1079 546 L1083 426 L1087 426 L1091 546 L1111 546 L1107 416Z" fill="url(#scrubB)"/><path d="M1055 548 q0 -8 12 -8 l12 0 l0 10 z M1089 550 l0 -10 l12 0 q12 0 12 8 z" fill="#1f2328"/><path d="M1045 304 Q1085 290 1125 304 L1131 446 L1039 446 Z" fill="url(#coat)" stroke="#c4cad1"/><path d="M1073 298 L1085 330 L1097 298" fill="url(#scrubB)"/><path d="M1073 298 L1081 376 M1097 298 L1089 376" stroke="#c4cad1" stroke-width="1.5"/><rect x="1099" y="340" width="18" height="22" rx="2" fill="#e5e7eb" stroke="#c4cad1"/><rect x="1103" y="336" width="3" height="12" fill="#2563eb"/><path d="M1075 300 Q1061 356 1081 370 Q1095 376 1093 346" fill="none" stroke="#2d3748" stroke-width="3"/><circle cx="1093" cy="346" r="5" fill="#94a3b8" stroke="#2d3748" stroke-width="2"/><rect x="1051" y="340" width="26" height="15" rx="2" fill="#7d2a4c"/><text x="1064" y="351" text-anchor="middle" font-size="7" fill="#fff" font-weight="700" font-family="Liberation Sans, DejaVu Sans, Arial, sans-serif">R2</text><rect x="1076" y="280" width="18" height="22" rx="6" fill="url(#skinB)"/><ellipse cx="1085" cy="262" rx="22" ry="26" fill="url(#skinB)"/><ellipse cx="1064" cy="264" rx="4" ry="7" fill="url(#skinB)"/><ellipse cx="1106" cy="264" rx="4" ry="7" fill="url(#skinB)"/><path d="M1062 260 Q1061 232 1085 234 Q1109 232 1108 260 Q1099 244 1081 246 Q1069 248 1062 260Z" fill="#231a16"/><path d="M1080 256 q5 -3 9 0 M1097 256 q5 -3 9 0" stroke="#3b2a20" stroke-width="1.8" fill="none"/><ellipse cx="1085" cy="263" rx="2.3" ry="2.6" fill="#2d2024"/><ellipse cx="1102" cy="263" rx="2.3" ry="2.6" fill="#2d2024"/><path d="M1094 265 q2 7 -2 9" stroke="#8a5a3e" stroke-width="1.4" fill="none" opacity=".7"/><path d="M1087 277 q7 4 13 0" stroke="#8a4a3a" stroke-width="1.8" fill="none"/><path d="M1119 316 Q1139 374 1145 380 L1203 398" stroke="url(#coat)" stroke-width="20" stroke-linecap="round" stroke-linejoin="round" fill="none"/><path d="M1119 316 Q1139 374 1145 380 L1203 398" stroke="#c4cad1" stroke-width="20" stroke-linecap="round" stroke-linejoin="round" fill="none" opacity=".25"/><ellipse cx="1203" cy="398" rx="8" ry="7" fill="url(#skinB)"/><path d="M1051 316 Q1039 394 1045 400 L1059 430" stroke="url(#coat)" stroke-width="20" stroke-linecap="round" stroke-linejoin="round" fill="none"/><path d="M1051 316 Q1039 394 1045 400 L1059 430" stroke="#c4cad1" stroke-width="20" stroke-linecap="round" stroke-linejoin="round" fill="none" opacity=".25"/><ellipse cx="1059" cy="430" rx="8" ry="7" fill="url(#skinB)"/><ellipse cx="1250" cy="640" rx="120" ry="19.2" fill="#1f2937" opacity=".22" filter="url(#blur)"/><rect x="1245" y="215" width="12" height="187" fill="url(#metal)"/><g filter="url(#sh)"><rect x="1150" y="400" width="210" height="26" rx="8" fill="#e5e7eb" stroke="#9ca3af"/><rect x="1160" y="426" width="190" height="170" rx="10" fill="url(#cartb)" stroke="#9ca3af"/></g><rect x="1172" y="438" width="166" height="40" rx="6" fill="#fff" stroke="#cbd5e1"/><rect x="1235" y="446" width="40" height="6" rx="3" fill="#7d2a4c"/><text x="1255" y="468" text-anchor="middle" font-size="10" fill="#6b7280" font-family="Liberation Sans, DejaVu Sans, Arial, sans-serif">guantes · gasas</text><rect x="1172" y="486" width="166" height="40" rx="6" fill="#fff" stroke="#cbd5e1"/><rect x="1235" y="494" width="40" height="6" rx="3" fill="#7d2a4c"/><text x="1255" y="516" text-anchor="middle" font-size="10" fill="#6b7280" font-family="Liberation Sans, DejaVu Sans, Arial, sans-serif">curación</text><rect x="1172" y="534" width="166" height="40" rx="6" fill="#fff" stroke="#cbd5e1"/><rect x="1235" y="542" width="40" height="6" rx="3" fill="#7d2a4c"/><text x="1255" y="564" text-anchor="middle" font-size="10" fill="#6b7280" font-family="Liberation Sans, DejaVu Sans, Arial, sans-serif">glucómetro · tiras</text><circle cx="1180" cy="610" r="14" fill="#2b2f36"/><circle cx="1180" cy="610" r="5" fill="#6b7280"/><circle cx="1330" cy="610" r="14" fill="#2b2f36"/><circle cx="1330" cy="610" r="5" fill="#6b7280"/><rect x="1164" y="390" width="40" height="14" rx="4" fill="#1f2937"/><ellipse cx="1184" cy="392" rx="10" ry="4" fill="#60a5fa"/><rect x="1310" y="378" width="16" height="26" rx="4" fill="#1f2937"/><rect x="1362" y="440" width="16" height="44" rx="6" fill="#bfdbfe" stroke="#2f6fb0"/><g filter="url(#sh)" transform="translate(-20,-48) scale(0.97) rotate(-5 1250 160)"><rect x="1110" y="70" width="290" height="190" rx="16" fill="#111418"/><foreignObject x="1120" y="80" width="270" height="170"><div xmlns="http://www.w3.org/1999/xhtml" style="width:270px;height:170px;background:#faf6f4;border-radius:6px;overflow:hidden;font:10px Liberation Sans,DejaVu Sans,Arial,sans-serif;color:#2d2429"><div style="background:linear-gradient(135deg,#6d2142,#9c3a5f);color:#fff;padding:5px 8px;font-weight:800;display:flex;justify-content:space-between"><span>SIVEC · PASE DE VISITA</span><span>09:05</span></div><div style="padding:6px 8px"><b style="font-size:11px">Cama 1 · Juana M. · 32 sem · ARO</b><div style="display:flex;gap:4px;margin:4px 0"><span style="background:#fde2e2;color:#991b1b;border-radius:6px;padding:1px 5px;font-weight:700">PA máx 142/90</span><span style="background:#fde2e2;color:#991b1b;border-radius:6px;padding:1px 5px;font-weight:700">glic 150</span><span style="background:#dcf3e5;color:#15803d;border-radius:6px;padding:1px 5px;font-weight:700">FCF 146</span></div><div>Interno: estable, sin alarma</div><div style="color:#b45309;font-weight:700">Pendiente: Doppler · metildopa</div><div style="color:#15803d;font-weight:700">✓ Síntomas corroborados</div><div style="color:#7d2a4c">🎤 “NPH noche 8 UI”</div><div style="margin-top:5px;background:#7d2a4c;color:#fff;border-radius:6px;text-align:center;padding:4px;font-weight:800">Firmar con huella 🖐</div></div></div></foreignObject></g><rect x="0" y="756" width="1400" height="64" fill="#2d1a24" opacity=".92"/><text x="40" y="794" font-size="20" fill="#fff" font-weight="700" font-family="Liberation Sans, DejaVu Sans, Arial, sans-serif">SIVEC · Pase de visita con el carro</text><text x="1360" y="794" text-anchor="end" font-size="15" fill="#f6d6e3" font-family="Liberation Sans, DejaVu Sans, Arial, sans-serif">la planta corrobora con la paciente · el residente firma con huella en el carro</text></svg></body></html>
